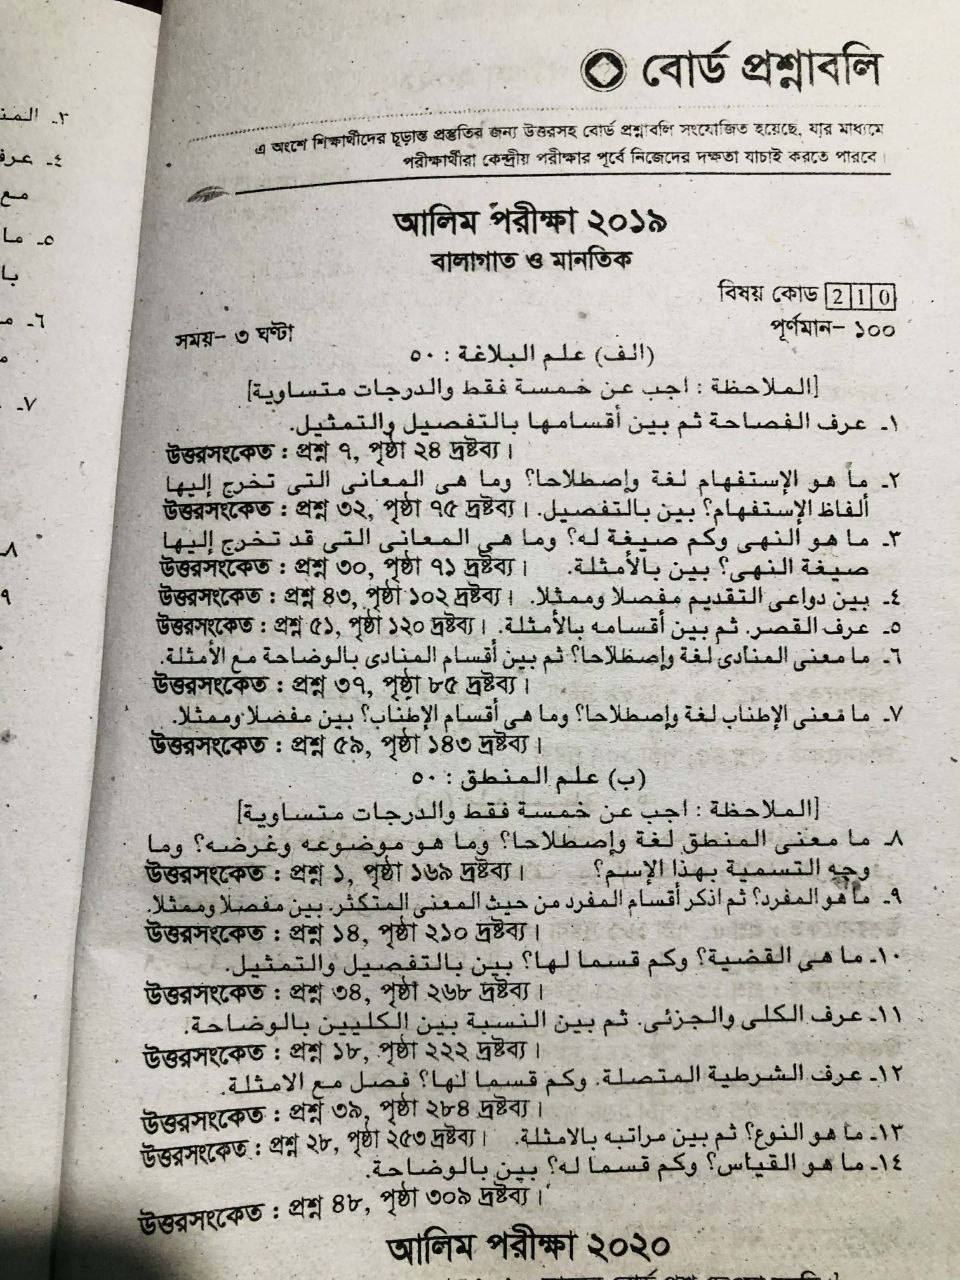
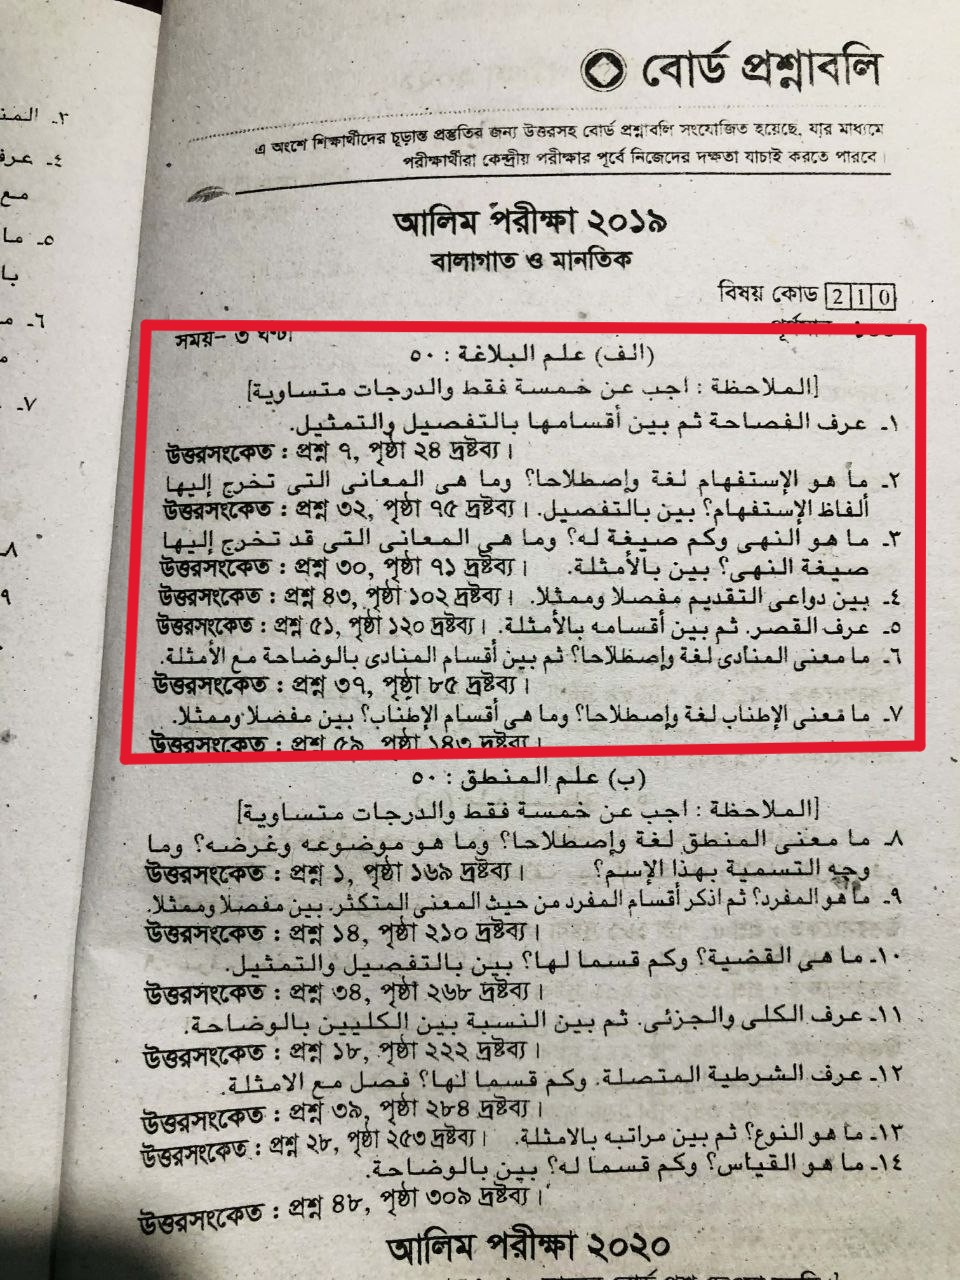
updet

Changed region(s): [[0.125, 0.25, 0.9688, 0.625]]

diff --git a/script.js b/script.js
@@ -14,7 +14,7 @@ const subjectData = [
 
             { img: 'image/qu3by1.jpg', text: '(𝟑) নং প্রশ্নের উত্তর 📌 Question3by1'},
             { img: 'image/qu3by2.jpg', text: 'Question3by2' },
-            { img: 'image/qu3by3.jpg', text: 'Question3by4' },
+            { img: 'image/qu3by3.jpg', text: 'Question3by3' },
 
             { img: 'image/qu4by1.jpg', text: '(𝟒) নং প্রশ্নের উত্তর 📌 Question4by1' },
             { img: 'image/qu4by2.jpg', text: 'Question4by2' },
@@ -29,7 +29,43 @@ const subjectData = [
             { img: 'image/qu6by3.jpg', text: 'Question6by3' }
         ]
     },
-    { title: 'হাদিস শরিফ', q: '১. ওহী কত প্রকার?', a: 'উত্তর: ওহী প্রধানত দুই প্রকার...', qImgs: [], aImgs: [] },
+
+{ 
+        title: 'মানতিক', 
+        q: 'Mantik Question', 
+        a: 'মানতিক এর পূর্ণ প্রশ্ন ও উত্তর নিচে দেওয়া হলো', 
+        qImgs: ['image/Mantik Question.jpg'],
+        aImgs: [
+            { img: 'image/qua1by1.jpg', text: '(𝟏) নং প্রশ্নের উত্তর 📌 Question1by1 ' },
+            { img: 'image/qua1by2.jpg', text: 'Question1by2' },
+            { img: 'image/qua1by3.jpg', text: 'Question1by3' },
+            { img: 'image/qua1by4.jpg', text: 'Question1by4' },
+            
+            { img: 'image/qua2by1.jpg', text: '(𝟐) নং প্রশ্নের উত্তর 📌 Question2by1' },
+            { img: 'image/qua2by2.jpg', text: 'Question2by2' },
+            { img: 'image/qua2by3.jpg', text: 'Question2by3' },
+            { img: 'image/qua2by4.jpg', text: 'Question2by4' },
+
+            { img: 'image/qua3by1.jpg', text: '(𝟑) নং প্রশ্নের উত্তর 📌 Question3by1'},
+            { img: 'image/qua3by2.jpg', text: 'Question3by2' },
+            { img: 'image/qua3by3.jpg', text: 'Question3by3' },
+            { img: 'image/qua3by4.jpg', text: 'Question3by4' },
+
+            { img: 'image/qua4by1.jpg', text: '(𝟒) নং প্রশ্নের উত্তর 📌 Question4by1' },
+            { img: 'image/qua4by2.jpg', text: 'Question4by2' },
+            { img: 'image/qua4by3.jpg', text: 'Question4by3' },
+            { img: 'image/qua4by4.jpg', text: 'Question4by4' },
+            { img: 'image/qua4by5.jpg', text: 'Question4by5' },
+
+            { img: 'image/qua5by1.jpg', text: '(𝟓) নং প্রশ্নের উত্তর 📌 Question5by1' },
+            { img: 'image/qua5by2.jpg', text: 'Question5by2' },
+            { img: 'image/qua5by3.jpg', text: 'Question5by3' },
+
+            { img: 'image/qua6by1.jpg', text: '(𝟔) নং প্রশ্নের উত্তর 📌 Question6by1' },
+            { img: 'image/qua6by2.jpg', text: 'Question6by2' },
+            { img: 'image/qua6by3.jpg', text: 'Question6by3' }
+        ]
+    },
     { title: 'ফিকহ ১ম', q: '১. ওযুর ফরয কয়টি?', a: 'উত্তর: ওযুর ফরয ৪টি।', qImgs: [], aImgs: [] },
     { title: 'ফিকহ ২য়', q: 'ফিকহ ২য় এর গুরুত্বপূর্ণ প্রশ্নসমূহ...', a: 'ফিকহ ২য় এর উত্তরসমূহ...', qImgs: [], aImgs: [] },
     { title: 'আরবি ১ম', q: '১. আল-আদাব এর সংজ্ঞা দাও।', a: 'উত্তর: সাহিত্যের বিশেষ শাখা...', qImgs: [], aImgs: [] },
